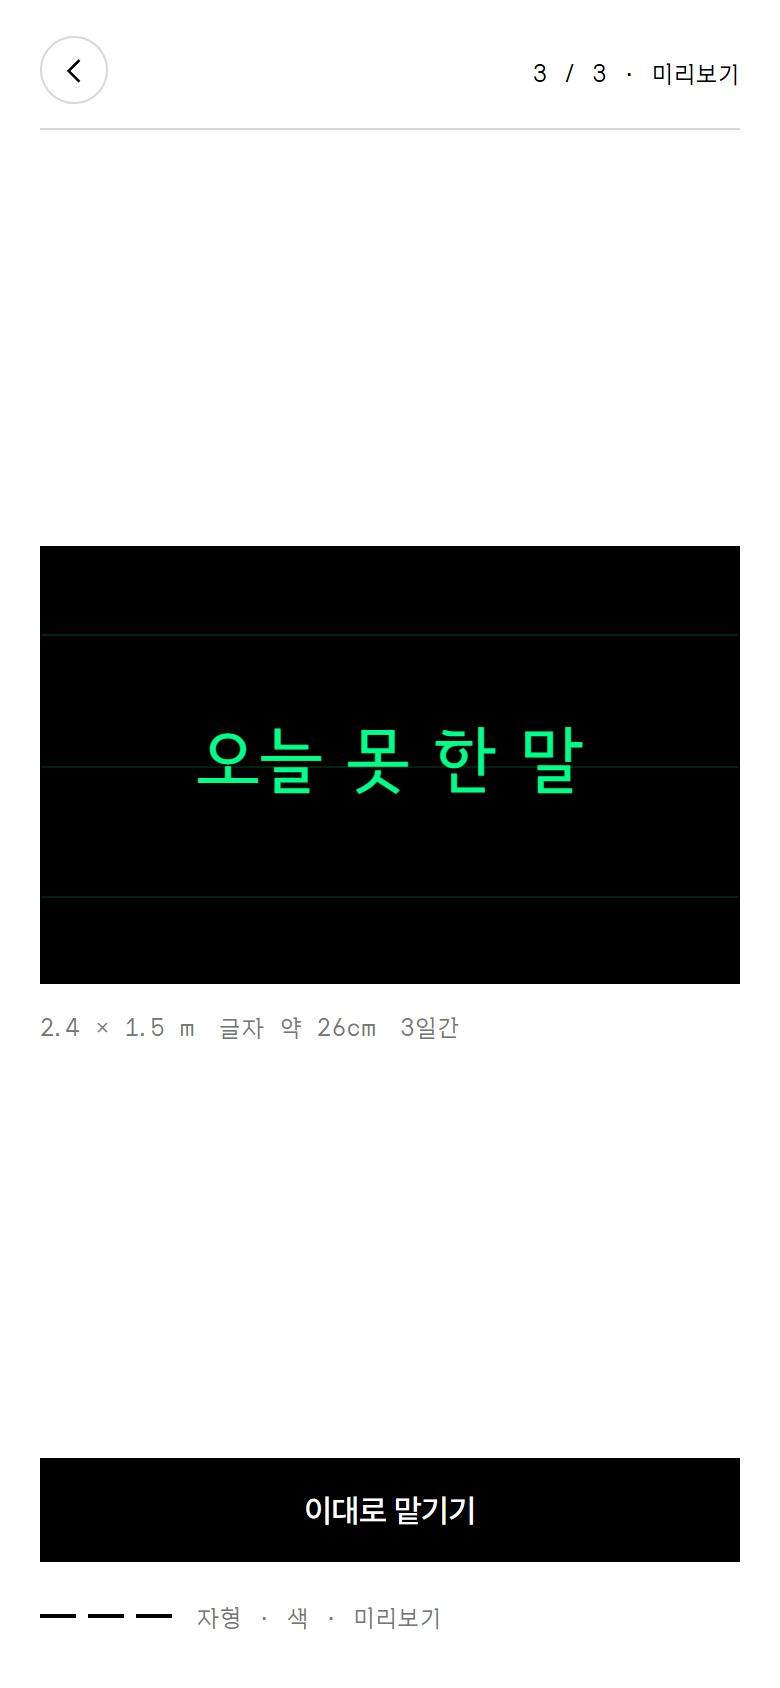
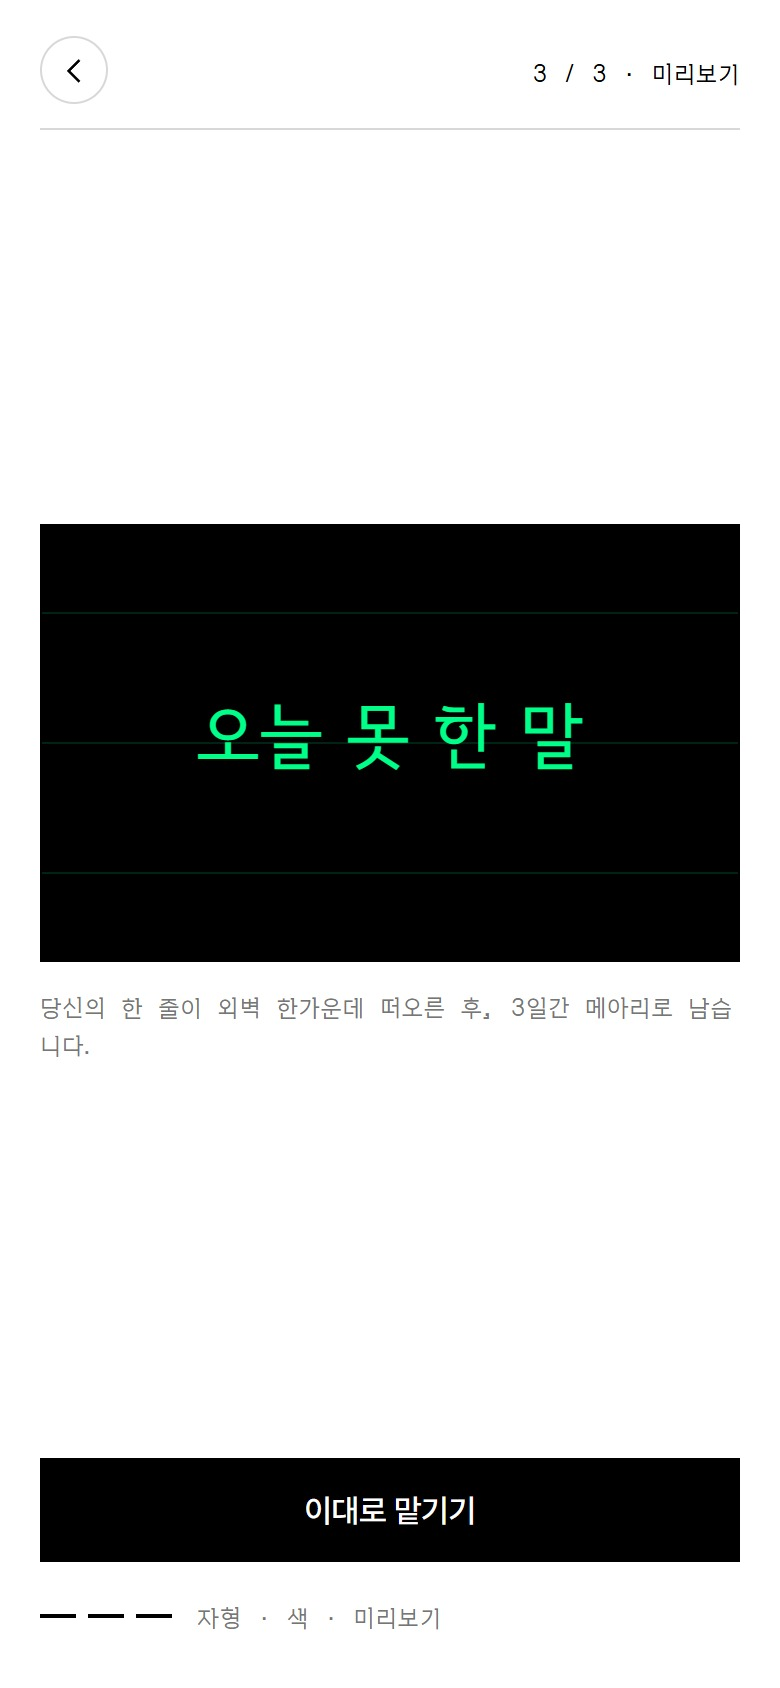
Say what the wall does, and dock the phone the way it actually goes in
The line under the preview read "2.4 × 1.5 m · 글자 약 26cm · 3일간" — a
spec sheet at the moment someone is deciding whether to hand over a
sentence. It now says what happens instead: 당신의 한 줄이 외벽 한가운데
떠오른 후, 3일간 메아리로 남습니다.

The docking pictogram had the phone going in sideways. It goes in
upright, top edge first — the speaker slot sits at the bottom of the
drawn phone, which is what tells you to turn it over. The body is now
filled with the page colour and drawn after the phone, so the phone slides
behind it instead of fading out, and the drop eases into its last stretch
so it lands rather than settles.

diff --git a/src/phases/PhaseDocking.tsx b/src/phases/PhaseDocking.tsx
@@ -16,8 +16,8 @@ export default function PhaseDocking({ onRestart, devNote }: Props) {
       <div className="guide-hero">
         <h1>이제 홈에 꽂아주세요</h1>
         <p>
-          폰을 가로로 눕혀 가만히 밀어 넣으면,<br />
-          당신의 한 줄이 외벽 한가운데 떠올라요.
+          폰 위쪽이 먼저 들어가도록,<br />
+          세로로 밀어 넣어주세요.
         </p>
 
         <DockGuide />
@@ -35,34 +35,45 @@ export default function PhaseDocking({ onRestart, devNote }: Props) {
 }
 
 // 폰 → 홈. 말로 설명하기 어려운 동작이라 그림이 대신한다.
+// 그리는 순서가 곧 앞뒤다: 폰을 먼저 두고 본체를 바탕색으로 덮어,
+// 내려간 폰이 본체 뒤로 사라지게 한다 — 페이드 없이 '들어갔다'가 읽힌다.
 function DockGuide() {
   return (
     <div className="dock-guide" aria-hidden>
-      <svg viewBox="0 0 160 150" width="150" height="141">
-        {/* 본체 윗면과 홈(슬롯) */}
-        <rect x="18" y="104" width="124" height="38" fill="none" stroke="currentColor" strokeWidth="1.5" />
-        <rect x="44" y="112" width="72" height="7" rx="3.5" fill="currentColor" />
-
-        {/* 내려가는 폰 — 가로로 눕힌 상태 */}
+      <svg viewBox="0 0 140 190" width="126" height="171">
+        {/* 내려가는 폰 — 세로로, 위쪽(스피커 쪽)이 아래를 향한다 */}
         <g className="dock-phone">
           <rect
-            x="44"
-            y="30"
-            width="72"
-            height="38"
-            rx="5"
-            fill="none"
+            x="50"
+            y="8"
+            width="40"
+            height="76"
+            rx="6"
+            fill="var(--paper)"
             stroke="currentColor"
             strokeWidth="1.8"
           />
-          <line x1="52" y1="49" x2="56" y2="49" stroke="currentColor" strokeWidth="1.8" />
+          {/* 스피커 — 이게 아래에 있다는 게 '거꾸로 잡는다'는 표시 */}
+          <rect x="62" y="74" width="16" height="2.6" rx="1.3" fill="currentColor" />
         </g>
 
         {/* 방향 */}
         <g className="dock-arrow" stroke="currentColor" strokeWidth="1.5" fill="none">
-          <line x1="80" y1="76" x2="80" y2="94" />
-          <polyline points="73,87 80,94 87,87" />
+          <line x1="70" y1="94" x2="70" y2="114" />
+          <polyline points="63,107 70,114 77,107" />
         </g>
+
+        {/* 본체 윗면과 홈(슬롯) — 바탕색으로 채워 폰을 가린다 */}
+        <rect
+          x="14"
+          y="124"
+          width="112"
+          height="62"
+          fill="var(--paper)"
+          stroke="currentColor"
+          strokeWidth="1.5"
+        />
+        <rect x="46" y="132" width="48" height="7" rx="3.5" fill="currentColor" />
       </svg>
     </div>
   );

diff --git a/src/phases/PhasePreview.tsx b/src/phases/PhasePreview.tsx
@@ -2,8 +2,8 @@ import { useEffect, useMemo, useRef } from 'react';
 import BackButton from '../components/BackButton';
 import { fontMap } from '../lib/palettes';
 import { moods } from '../lib/palettes-v2';
-import { STAY_DAYS, WALL_H_M, WALL_W_M } from '../lib/wall';
-import { fitFontSize, glyphCm } from '../lib/fit';
+import { STAY_DAYS } from '../lib/wall';
+import { fitFontSize } from '../lib/fit';
 import type { ToneState } from '../types';
 
 interface Props {
@@ -20,7 +20,6 @@ export default function PhasePreview({ text, tone, onConfirm, onBack }: Props) {
 
   // 쓰기 화면과 같은 계산(lib/fit). 액자가 정해진 크기라 긴 문장은 작게 들어간다.
   const fitSize = useMemo(() => fitFontSize(text), [text]);
-  const cm = useMemo(() => glyphCm(text, WALL_W_M), [text]);
 
   // Build word spans + line pulse (same rhythm as the compose stage / wall)
   useEffect(() => {
@@ -99,11 +98,7 @@ export default function PhasePreview({ text, tone, onConfirm, onBack }: Props) {
         </div>
 
         <div className="proj-meta">
-          <span>
-            {WALL_W_M} × {WALL_H_M} m
-          </span>
-          <span>글자 약 {cm}cm</span>
-          <span>{STAY_DAYS}일간</span>
+          당신의 한 줄이 외벽 한가운데 떠오른 후, {STAY_DAYS}일간 메아리로 남습니다.
         </div>
       </div>
 

diff --git a/src/styles/app.css b/src/styles/app.css
@@ -608,6 +608,7 @@
   gap: 12px;
   font-family: var(--label-font);
   font-size: 12px;
+  line-height: 1.65;
   letter-spacing: 0.02em;
   color: var(--muted);
 }
@@ -898,9 +899,10 @@
 }
 
 @keyframes dockDrop {
-  0%, 12%   { transform: translateY(0); opacity: 1; }
-  52%       { transform: translateY(76px); opacity: 1; }
-  66%, 100% { transform: translateY(76px); opacity: 0; }
+  /* 끝에서 가속 — 마지막에 '팍' 들어간다 */
+  0%, 16%   { transform: translateY(0); animation-timing-function: cubic-bezier(0.5, 0, 0.85, 0.9); }
+  54%       { transform: translateY(126px); }
+  100%      { transform: translateY(126px); }
 }
 
 .dock-arrow {
